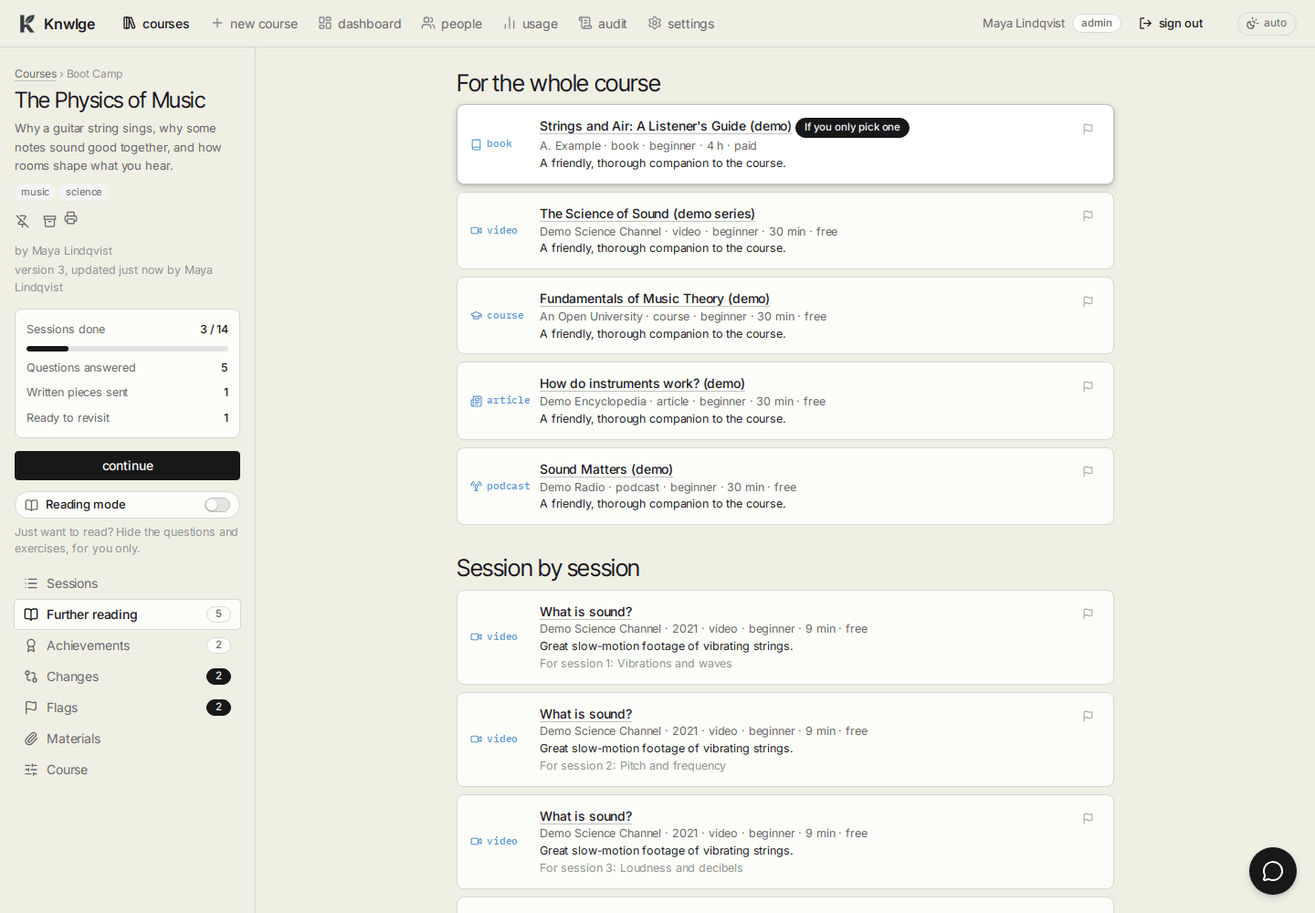
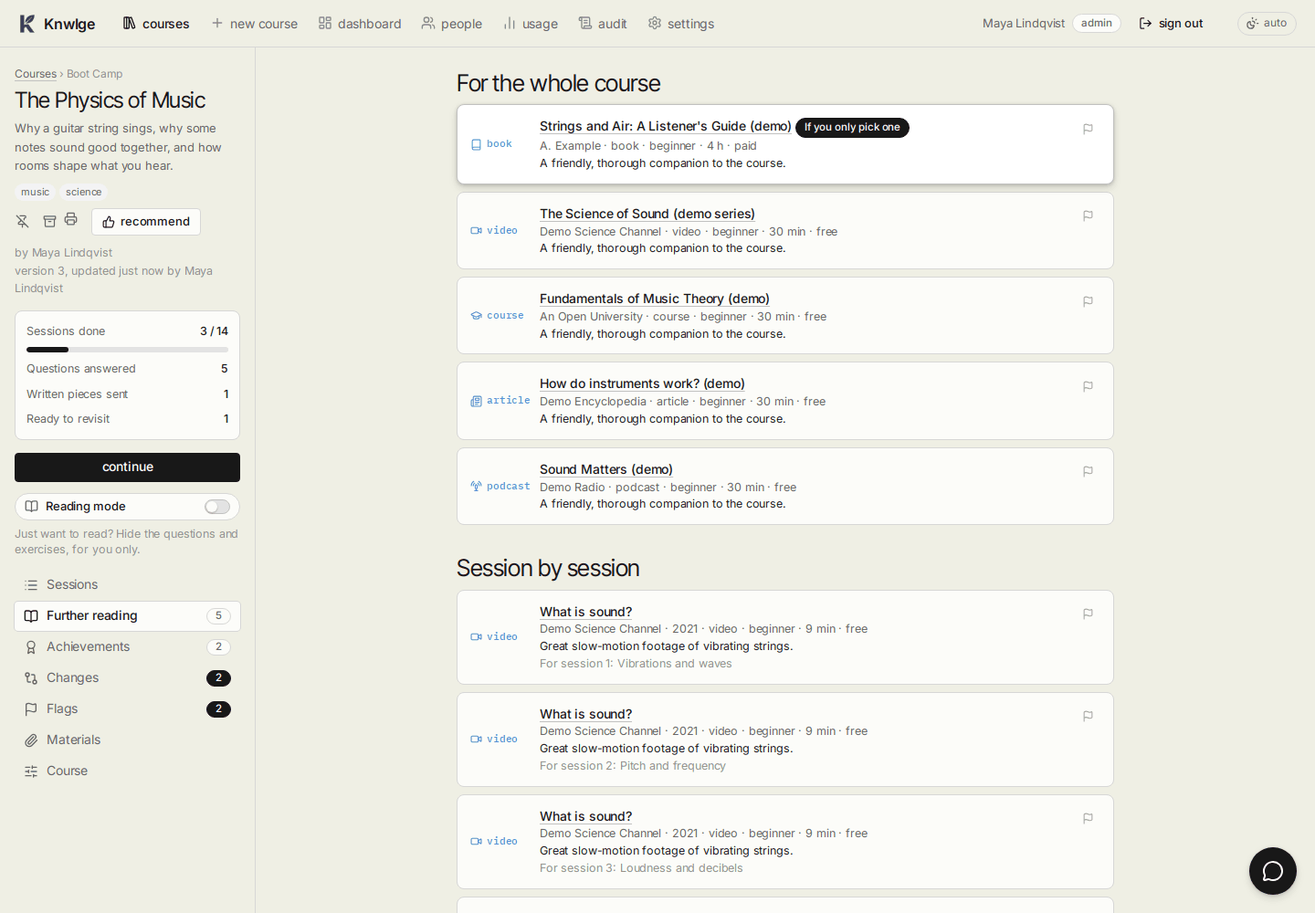
v0.5: demo data, browser checks, screenshots and docs for recommendations, the welcome and course costs

diff --git a/tests/e2e/smoke.py b/tests/e2e/smoke.py
@@ -137,6 +137,18 @@ def main() -> None:
         page.goto(f"{BASE}/#/course/{music}")
         page.wait_for_selector(".vtabs")
         check("no scores: no mastery on the course page", page.get_by_text("Mastery").count() == 0)
+        page.click("[data-recommend]")
+        page.wait_for_selector("dialog .pick-list li")
+        check("recommend: pick people or everyone", page.locator("dialog .pick-list li").count() == 2 and page.locator("dialog #rall").count() == 1)
+        page.locator("dialog .pick-list input").first.check()
+        page.fill("dialog #rnote", "Start with session one.")
+        page.click("dialog #rgo")
+        page.wait_for_selector("dialog .rec-list li")
+        check("recommend: it's listed with the note", "Start with session one." in page.locator("dialog .rec-list").inner_text())
+        page.keyboard.press("Escape")
+        page.goto(f"{BASE}/#/new")
+        page.wait_for_selector(".upload-note")
+        check("new course: the reminder under the upload", "passwords" in page.locator(".upload-note").inner_text())
 
         for path, sel in (("#/people", "table"), ("#/audit", "#rows tr"), ("#/usage", "main h1, #view h1"), ("#/settings", "#view h1"),
                           ("#/dashboard", ".funnel"), ("#/import", "#pf")):
@@ -148,6 +160,8 @@ def main() -> None:
         check("settings: three providers and seven roles", page.locator(".prov").count() == 3 and page.locator(".route").count() == 7)
         check("settings: no key in the page", "sk-ant-demo" not in page.content())
         check("settings: review and learners' courses", page.locator("#review:checked").count() == 1 and page.locator("#lcourses").count() == 1)
+        check("settings: the welcome and reminder words", "Welcome to Knwlge" in page.locator("#wtext").input_value()
+              and "passwords" in page.locator("#unote").input_value())
         page.goto(f"{BASE}/#/session/{music}-s02")
         page.wait_for_selector(".draft-bar")
         check("session: drafts waiting show on their part and question", page.locator(".draft-bar").count() >= 2)
@@ -177,6 +191,19 @@ def main() -> None:
         # ---- a learner ----
         learner = watch(browser.new_context(viewport={"width": 1280, "height": 900}).new_page())
         sign_in(learner, "kim")
+        learner.wait_for_selector("dialog.welcome")
+        check("learner: the welcome, the first time", "Welcome to Knwlge" in learner.locator("dialog.welcome").inner_text())
+        learner.click("dialog.welcome [data-close]")
+        learner.wait_for_selector("dialog.welcome", state="detached")
+        learner.wait_for_selector("#recbox:not([hidden]) .card")
+        check("learner: recommended courses, with who and why", learner.locator("#rec .card").count() == 2
+              and "Recommended by Sam" in learner.locator("#rec").inner_text())
+        learner.locator("#rec [data-shelf=notnow]").first.click()
+        expect(learner.locator("#rec .card")).to_have_count(1)
+        check("learner: not now moves one back to available", learner.locator("#rec .card").count() == 1)
+        learner.reload()
+        learner.wait_for_selector(".grid .card")
+        check("learner: the welcome shows only once", learner.locator("dialog.welcome").count() == 0)
         check("learner: a new-course link (learners make their own here)", learner.locator(".top nav a[href='#/new']:visible").count() == 1)
         check("learner: no dashboard link", learner.locator(".top nav a[href='#/dashboard']:visible").count() == 0)
         learner.wait_for_selector("#feedbox:not([hidden]) .feed li")

diff --git a/app/demo.py b/app/demo.py
@@ -424,6 +424,17 @@ def demo_changes(c) -> None:
     c.execute("INSERT OR REPLACE INTO course_opens(user_id, course_id, at) VALUES (?,?,?)", (ids["kim"], knots, stamp(1)))
 
 
+def demo_recommendations(c) -> None:
+    """Sam recommends watercolour to Kim; Maya recommends the money course to everyone."""
+    ids = {r["username"]: r["id"] for r in c.execute("SELECT id, username FROM users")}
+    stamp = lambda days: (dt.datetime.now(dt.timezone.utc) - dt.timedelta(days=days)).replace(microsecond=0).isoformat().replace("+00:00", "Z")  # noqa: E731
+    course = lambda word: c.execute("SELECT id FROM courses WHERE title LIKE ?", (f"%{word}%",)).fetchone()["id"]  # noqa: E731
+    for word, to, by, note, days in (("Watercolour", "kim", "sam", "A gentle one for the weekends, and the washes session is lovely.", 1),
+                                     ("Money Basics", None, "maya", "Worth an hour for everyone: the emergency-fund session especially.", 3)):
+        c.execute("INSERT INTO recommendations(course_id, to_user, by_user, note, created_at) VALUES (?,?,?,?,?)",
+                  (course(word), ids[to] if to else None, ids[by], note, stamp(days)))
+
+
 def main() -> None:
     db.init()
     with db.tx() as c:
@@ -465,6 +476,9 @@ def main() -> None:
             demo_team(c)
             demo_team_progress(c)
             demo_changes(c)
+            demo_recommendations(c)
+        # everyone has seen the welcome except Kim, who sees it on first sign-in
+        c.execute("UPDATE users SET prefs_json=json_set(prefs_json, '$.welcomed_at', ?) WHERE username<>'kim'", (db.now(),))
     print("demo data written" + (" (with team accounts: " + ", ".join(f"{u} / {p}" for u, _, _, p in DEMO_PEOPLE) + ")"
                                  if "--team" in sys.argv[1:] else ""))
 

diff --git a/tools/screenshots.py b/tools/screenshots.py
@@ -58,6 +58,12 @@ def main() -> None:
         shot("plan")
         go(f"#/course/{music}", ".vtabs")
         shot("course")
+        pg.click("[data-recommend]")
+        pg.wait_for_selector("dialog .pick-list li")
+        pg.locator("dialog .pick-list input").first.check()
+        pg.fill("dialog #rnote", "Start with the first session before the workshop.")
+        shot("recommend", 400)
+        pg.keyboard.press("Escape")
         go(f"#/course/{music}/reading", ".vtabs")
         shot("reading")
         go(f"#/course/{music}/manage", ".vtabs")
@@ -157,6 +163,21 @@ def main() -> None:
         pg.reload()   # the theme is applied as the page loads
         pg.wait_for_selector(".chunk .prose p")
         shot("dark", 1500)
+
+        kim = br.new_context(viewport={"width": 1440, "height": 1000}).new_page()
+        kim.goto(f"{BASE}/#/signin")
+        kim.fill("#u", "kim")
+        kim.fill("#p", PW["kim"])
+        kim.keyboard.press("Enter")
+        kim.wait_for_selector("dialog.welcome")
+        kim.wait_for_timeout(600)
+        kim.screenshot(path=str(OUT / "welcome.png"))
+        kim.click("dialog.welcome [data-close]")
+        kim.wait_for_selector("#recbox:not([hidden]) .card")
+        kim.evaluate("() => document.getElementById('recbox').scrollIntoView({block: 'center'})")
+        kim.wait_for_timeout(600)
+        kim.screenshot(path=str(OUT / "recommended.png"))
+        print("shot welcome, recommended", flush=True)
 
         ph = br.new_context(**p.devices["Pixel 7"]).new_page()
         ph.goto(f"{BASE}/#/signin")

diff --git a/README.md b/README.md
@@ -174,7 +174,9 @@ Taken from a throw-away demo with made-up courses and people (`python -m app.dem
 - **Achievements** - a built-in set on every course plus two or three course-themed ones written with the plan, for exploring and finishing, never for speed
 - **Dashboard and an opt-in feed (team mode)** - admins see who is taking what, per-session progress through each course, where answers are often missed and spend by provider; each person chooses whether their finished sessions and achievements appear in the feed
 - **Personal or team** - just you (open, or with an optional password), or accounts with learner, author and admin roles, drafts and publishing, everyone's progress their own, and an audit log of who did what. Authors change any course; an admin can make changes to others' courses wait for review, let learners make private courses of their own, and give every learner the same monthly AI allowance
-- **Costs in the open** - every call logged with its tokens and cost, by course, person and kind of work; an optional monthly budget that pauses work when reached
+- **Recommend a course (team mode)** - authors and admins suggest a published course to people or everyone, with a note; it shows on their home page until they start it or say not now. No deadlines
+- **A welcome and a reminder** - a one-time welcome that explains how it works, and a line under every upload and send button about what not to send; admins can change both
+- **Costs in the open** - every call logged with its tokens and cost, by course, person and kind of work; an optional monthly budget that pauses work when reached; a course's owner sees what it costs
 - **Desktop and phone** - an app-like layout where only content scrolls, a folding menu on phones, light and dark (Paper style); installable as an app over HTTPS
 
 ## Architecture
@@ -199,7 +201,7 @@ flowchart LR
 | Course pipeline (`app/pipeline.py`, `prompts.py`, `tiers.py`) | Questions, plan, sessions, checks and the reading list, each a JSON-Schema prompt |
 | Learning (`app/learning.py`) | Attempts, marking, warm-ups and spaced review, progress, the tutor |
 | Jobs and providers (`app/jobs.py`, `providers.py`, `gemini.py`, `budget.py`, `pricing.py`) | The queue and its worker thread, one interface over Gemini, OpenAI, Anthropic (official SDK) and OpenAI-compatible endpoints, cost logging and the budget |
-| Library and people (`app/library.py`, `achievements.py`, `activity.py`, `dashboard.py`) | Tags and each person's shelves, achievements, the opt-in feed and the admin dashboard |
+| Library and people (`app/library.py`, `achievements.py`, `activity.py`, `dashboard.py`, `recommend.py`, `texts.py`) | Tags and each person's shelves, achievements, the opt-in feed, the admin dashboard, recommendations, and the welcome and upload reminder |
 | Packages (`app/package.py`) | `.knwlge` export and the untrusted import |
 | Changes and flags (`app/changes.py`, `flags.py`) | Drafts and review, versions and rollback, session and plan rewrites that archive instead of deleting, learners' flags with an AI second look |
 | Media and checks (`app/media.py`, `verify.py`) | Lesson media and link checking, run in the worker's idle time, public addresses only |
@@ -287,7 +289,8 @@ knwlge/
 │   ├── changes.py      # drafts, review, versions and rollback, session and plan changes; flags.py, learners' flags
 │   ├── editing.py      # Markdown export, renaming, taking questions out; package.py the .knwlge export and import
 │   ├── jobs.py         # job queue and worker; providers.py (Gemini, OpenAI, Anthropic, compatible), gemini.py, budget.py, pricing.py
-│   ├── library.py      # tags and each person's shelves; achievements.py, activity.py (feed), dashboard.py
+│   ├── library.py      # tags and each person's shelves; achievements.py, activity.py (feed), dashboard.py,
+│   │                   #   recommend.py (recommending courses), texts.py (the welcome and upload reminder)
 │   ├── media.py        # lesson media; verify.py checks reading suggestions
 │   ├── auth.py         # modes, accounts, roles; accounts.py (CLI), audit.py
 │   ├── demo.py         # made-up demo data

diff --git a/docs/wiki/data-model.md b/docs/wiki/data-model.md
@@ -4,7 +4,7 @@ See [index](index.md). Schema and upgrades: [app/db.py](../../app/db.py). `SCHEM
 
 | Table | Holds |
 |---|---|
-| `settings` | Key-value settings: the Gemini key and model list, the per-role routes (`route_<role>`), the old per-tier models, budget cap, `feed_off`, `review_required`, `learner_courses`, `learner_cap_usd` |
+| `settings` | Key-value settings: the Gemini key and model list, the per-role routes (`route_<role>`), the old per-tier models, budget cap, `feed_off`, `review_required`, `learner_courses`, `learner_cap_usd`, `welcome_text` and `upload_note` (unset: the built-in words in `texts.py`) |
 | `courses` | Subject, notes, depth, status (`questions` → `answering` → `planning` → `review` → `building` → `ready`), plan JSON, answers, options (extras), `tags_json`, `author_id`, `visibility` (`draft`/`published`), `published_at`, `version`, `updated_by`, `suggested_at` (a learner's course, suggested for everyone) |
 | `sessions` | One per plan slot: kind, minutes, title, topics, objectives, `state` (`pending`/`writing`/`checking`/`ready`/`failed`), `content_json` (goal, hook, chunks with Markdown and worked examples, wrap-up), warnings, `gen` (which rewrite is live), `archived` (taken out of the plan) |
 | `items` | Questions, exercises and project options: section (`check`, `practice`, `exercise`, `project`), chunk, type, options, answer, explanation, tolerance, rubric, `archived` (an earlier version of its session, or taken out), `changed_at` and `changed_after` (the question or key changed: earlier answers get a label) |
@@ -26,7 +26,9 @@ See [index](index.md). Schema and upgrades: [app/db.py](../../app/db.py). `SCHEM
 | `providers` | AI providers besides the built-in Gemini: kind, label, base URL, key (server-side only), model list with optional prices, whether it searches and its search price, last test ([providers](providers.md)) |
 | `achievements`, `user_achievements` | Course-themed achievements (title, description, rule, slot) and who earned what, built-in ones included ([library-and-people](library-and-people.md)) |
 | `activity` | The opt-in feed: who, what (`session_done`, `course_done`, `achievement`), course, when |
-| `users`, `login_sessions` | Accounts and sign-ins ([auth](auth.md)) |
+| `recommendations` | A published course recommended to a person (`to_user`) or everyone (NULL), by whom, with a note ([library-and-people](library-and-people.md#recommendations)) |
+| `rec_dismissed` | Per person and course: when they said "not now" (hides recommendations made before it) |
+| `users`, `login_sessions` | Accounts and sign-ins ([auth](auth.md)); `prefs_json` holds `share_activity` and `welcomed_at` |
 | `audit_log` | Who did what, when, with details as JSON ([auth](auth.md#audit-log)) |
 
 ## Ids and files
@@ -43,4 +45,5 @@ upgrade (team edition) creates the owner account (id 1), adds `user_id` columns,
 `sessions` into `session_progress` and `course_opens`, and rebuilds `review_queue` with its new key. The v3 → v4 upgrade (v0.3) adds the
 `providers`, `activity`, `achievements` and `user_achievements` tables and the `courses.tags_json`, `course_prefs.pinned`,
 `course_prefs.shelf` and `llm_calls.provider` columns; nothing is moved. The v4 → v5 upgrade (v0.4) adds the `versions`,
-`changes` and `flags` tables and the archive, generation, version and suggestion columns above; nothing is moved. Each upgrade is idempotent, and a v0.1.0 database is kept as a test fixture ([tests/fixtures/schema_v2.sql](../../tests/fixtures/schema_v2.sql)).
+`changes` and `flags` tables and the archive, generation, version and suggestion columns above; nothing is moved. The v5 → v6 upgrade (v0.5) adds
+the `recommendations` and `rec_dismissed` tables. Each upgrade is idempotent, and a v0.1.0 database is kept as a test fixture ([tests/fixtures/schema_v2.sql](../../tests/fixtures/schema_v2.sql)).

diff --git a/docs/wiki/library-and-people.md b/docs/wiki/library-and-people.md
@@ -1,7 +1,8 @@
 # The library and people
 
 See [index](index.md). Code: [app/library.py](../../app/library.py), [app/achievements.py](../../app/achievements.py),
-[app/activity.py](../../app/activity.py), [app/dashboard.py](../../app/dashboard.py).
+[app/activity.py](../../app/activity.py), [app/dashboard.py](../../app/dashboard.py), [app/recommend.py](../../app/recommend.py),
+[app/texts.py](../../app/texts.py).
 
 ## Tags and shelves
 
@@ -14,6 +15,30 @@ See [index](index.md). Code: [app/library.py](../../app/library.py), [app/achiev
   keeps progress and unpins. `PUT /api/courses/{id}/shelf` takes `{pinned}` and/or `{shelf: "mine"|"aside"|"auto"}`.
 - `GET /api/courses` returns `tags`, `pinned`, `shelf` and `mine` per course; the home page splits on `mine`, pinned
   first, then by last opened.
+
+## Recommendations
+
+Team mode, authors and admins, published courses only. `POST /api/courses/{id}/recommendations` takes
+`{everyone, to: [user ids], note}`: one row per person, or one with `to_user` NULL for everyone; a new one for the same
+person (or everyone) on the same course replaces the old. `GET` on the same path gives the people to pick from and the
+current list; `DELETE /api/recommendations/{id}` takes one back (whoever made it, or an admin). `recommend.for_user`
+gives each course's newest recommendation to this person or everyone, not made by them, and newer than their
+`rec_dismissed` row (`POST /api/courses/{id}/recommendations/dismiss`, "not now"); `GET /api/courses` returns it as
+`recommended` on published courses, and the home page shows those that aren't *mine* yet under "Recommended for you".
+
+## The welcome and the upload reminder
+
+`texts.py` holds the built-in welcome (Markdown) and reminder; the `welcome_text` and `upload_note` settings replace
+them (empty, or the built-in words, clears the setting). `GET /api/me` returns `upload_note` always, and `welcome` until
+the person has closed it (`users.prefs_json.welcomed_at`, set by `POST /api/me/welcomed`; `{seen: false}` clears it and
+returns the text). The front end shows it after the first page draws, and `uploadNote()` (util.js) puts the reminder
+under file inputs, written answers and the tutor. `PUT /api/settings` with `welcome_again` clears everyone's
+`welcomed_at`.
+
+## What a course costs
+
+`GET /api/courses/{id}` returns `spend` (all time) and `spend_month` to admins and the course's owner, from
+`llm_calls.course_id`. The Course tab shows them.
 
 ## Achievements
 

diff --git a/wiki/getting-started.md b/wiki/getting-started.md
@@ -23,6 +23,18 @@ username. Too many wrong tries in a row and it makes you wait a little before th
 
 **sign out** is in the top bar, next to your name and role.
 
+### The welcome
+
+The first time you open Knwlge, a short welcome explains how courses, questions, the tutor and flags work, with a
+reminder about what not to upload. **Got it** closes it for good; **Show the welcome again** on your account page
+(click your name) brings it back. An admin may have changed its words for your group.
+
+<img src="images/welcome.png" alt="The welcome: how sessions, written answers, the tutor, warm-ups and flags work, and what not to upload" width="100%">
+
+Under every upload and send button (a new course's files, materials, written answers, the tutor) a one-line reminder
+says what not to send: passwords, other people's personal details, confidential work files. What you upload or type
+there goes to the AI provider.
+
 ### Your name
 
 Click your name in the top bar to change the name others see (on courses you write, in the people list and the audit
@@ -40,11 +52,16 @@ log). The username you sign in with stays the same. The same page has **change p
 
 ### Your courses and the rest
 
-The home page has two parts, split by a line:
+The home page has up to three parts:
 
 - **My courses**: the ones you're taking. A course moves up here by itself once you start it (finish a session or
   answer a question). Pinned ones come first. A course an author is still making is theirs too.
+- **Recommended for you** (team mode): courses an author or admin suggested to you, or to everyone, with who and
+  their note. It's a nudge, with no deadline. Start one (or press **+**) and it moves to your courses; **×** (not now)
+  moves it to available. A newer recommendation of the same course shows it here again.
 - **Available**: everything else you can open. **+** on a card adds it to your courses without starting it.
+
+<img src="images/recommended.png" alt="Recommended for you: two courses, each with who recommended it and their note, between My courses and Available" width="100%">
 
 On each of your cards, the pin keeps it at the top, and the box icon **moves it to available** when you're done with
 it or putting it aside. Your progress stays; start it again (or press **+**) and it comes back up. Pins and shelves are

diff --git a/wiki/administration.md b/wiki/administration.md
@@ -14,6 +14,7 @@ For admins. In personal mode you're the admin; **dashboard**, **people** and **a
 | AI providers | Gemini is built in; add OpenAI, Anthropic or an OpenAI-compatible endpoint. Each has **save**, **test and list models**, **remove**, and **Prices** (see below). Keys never leave the server and aren't shown again |
 | Who does what | A provider and model for each kind of work (see below) |
 | Monthly budget | A cap in dollars, or **no limit** (the default). When the month's spend reaches it, new work pauses until next month or until you raise it |
+| Welcome and reminder | The welcome everyone sees once, and the one-line reminder under upload and send buttons ([below](#welcome-and-reminder)) |
 | Changes and courses (team mode) | Review before changes go live; whether learners can make their own courses; a monthly AI allowance per learner ([below](#changes-and-courses)) |
 | Password (personal mode) | Off by default: the app just opens. Set one and Knwlge asks for it; **turn off password** opens it again |
 | Paused work | Work pauses when a provider rate-limits, refuses its key, or the budget is reached. **resume paused work now** tries again (saving settings does too) |
@@ -92,6 +93,17 @@ The feed shows when someone finishes a session or a course, or earns an achievem
 chooses in their account (**Share my activity**, off by default) whether they appear. Nothing is recorded for someone
 who isn't sharing, so turning it on later never shows the past; turning it off removes their entries. Drafts never
 appear, and entries older than 90 days are cleared.
+
+## Welcome and reminder
+
+Both start with built-in words; change them for your group in **Settings**, then **Save words**. Clear a box to go
+back to the built-in text.
+
+- **Welcome** (Markdown): shown once, the first time someone opens Knwlge. Changing it doesn't show it again by
+  itself; **Show the welcome to everyone again** does, the next time each person opens the app. Anyone can see it
+  again from their account page.
+- **Reminder under upload and send buttons**: one line about what not to send, under a new course's files,
+  materials, written answers and the tutor. It's also on the welcome.
 
 ## Changes and courses
 

diff --git a/docs/ROADMAP.md b/docs/ROADMAP.md
@@ -42,18 +42,20 @@ Tick items off here as they land.
 - [x] **v0.4** Course page shows the author, last update and version
 - [x] **v0.4** Roles: authors change any course; learners may make private courses of their own (an admin switch)
       and suggest them for everyone; one monthly AI allowance for every learner, covering all their AI use
-- [ ] Optional: "recommend to" people or the whole group (a nudge, no deadlines)
+- [x] **v0.5** "Recommend to" people or everyone: a nudge on their home page with who and a note, no deadlines; "not now"
+      hides it
 - [x] The second read-through for a rewritten session draft, as for a new session
 
 ## Phase 3: other AI providers (follow-ups)
 
 - [x] Web search for OpenAI (its Responses API) and for OpenAI-compatible endpoints that offer it (LiteLLM's
       `web_search_options`, switched on per endpoint)
-- [ ] Price lists fetched for OpenAI models instead of typed in
+- [ ] Price lists fetched for OpenAI models instead of typed in (likely from LiteLLM's public price list; later)
 
 ## Phase 4: welcome
 
-- [ ] A one-time welcome screen, and a one-line reminder under upload and submit buttons about what not to upload
+- [x] **v0.5** A one-time welcome screen, and a one-line reminder under upload and send buttons about what not to upload;
+      both texts editable by admins
 
 ## Phase 5: hands-on labs
 
@@ -73,6 +75,6 @@ Tick items off here as they land.
 
 ## Open questions
 
-- Recommend or assign courses to specific people: in or out?
-- Per-person soft spend limits?
-- Should authors see what their own courses cost?
+- Per-person soft spend limits? (v0.4 has one monthly allowance for every learner)
+
+Decided: recommending is in, assigning with deadlines is out; authors see what their own courses cost (v0.5).

diff --git a/docs/wiki/frontend.md b/docs/wiki/frontend.md
@@ -15,6 +15,8 @@ See [index](index.md). Code: [app/static/](../../app/static/). Plain HTML, CSS a
 | [js/tutor.js](../../app/static/js/tutor.js) | The tutor bubble and its chat window (`mountTutor`, `openChat`, `removeTutor`) |
 | [js/sectionmenu.js](../../app/static/js/sectionmenu.js) | The right-click section menu and its Edit / Rewrite / Add dialogs, History and Flag |
 | [js/review.js](../../app/static/js/review.js) | The word diff, the review dialog (accept or discard a draft), the history dialog (restore), the flag dialog, and the course page's Changes and Flags tabs |
+| [js/recommend.js](../../app/static/js/recommend.js) | The recommend dialog: everyone or picked people, a note, and the list with take back |
+| [js/welcome.js](../../app/static/js/welcome.js) | The one-time welcome (shown by the router while `/api/me` returns `welcome`) and "show it again" |
 | [js/theme.js](../../app/static/js/theme.js) | Applies the saved theme before first paint |
 | [js/readingmode.js](../../app/static/js/readingmode.js) | The Reading mode switch (course sidebar and session toolbar) and the list of quiz-like widgets it hides |
 | [sw.js](../../app/static/sw.js) | The service worker, served at `/sw.js` with its build stamp ([below](#installable-app)) |

diff --git a/wiki/editing-courses.md b/wiki/editing-courses.md
@@ -153,6 +153,19 @@ The **Course** tab:
   achievements**. People keep what they've already earned.
 - **Share or keep a copy**: see below.
 - **Delete this course** (its owner or an admin): removes it and everything in it, for everyone. It asks first.
+- **What it costs**: the course's owner and admins see its AI spend so far, this month and in all, next to its
+  subject and depth.
+
+## Recommending a course (team mode)
+
+<img src="images/recommend.png" alt="Recommend The Physics of Music: everyone, or people picked from a list, with an optional note" width="100%">
+
+On a published course, authors and admins have **recommend** under the title. Pick **Everyone** (everyone who signs
+in, now and later) or tick people, add a note if you like, and press **Recommend**. It shows on their home page under
+**Recommended for you** until they start the course or say not now. There are no deadlines and nothing to track:
+the dashboard already shows who's taking what. The same dialog lists who it's recommended to; **take back** removes one
+(yours, or anyone's if you're an admin). Recommending the same person again replaces the older one and shows it again
+even if they'd said not now.
 
 ## Printing and sharing
 
